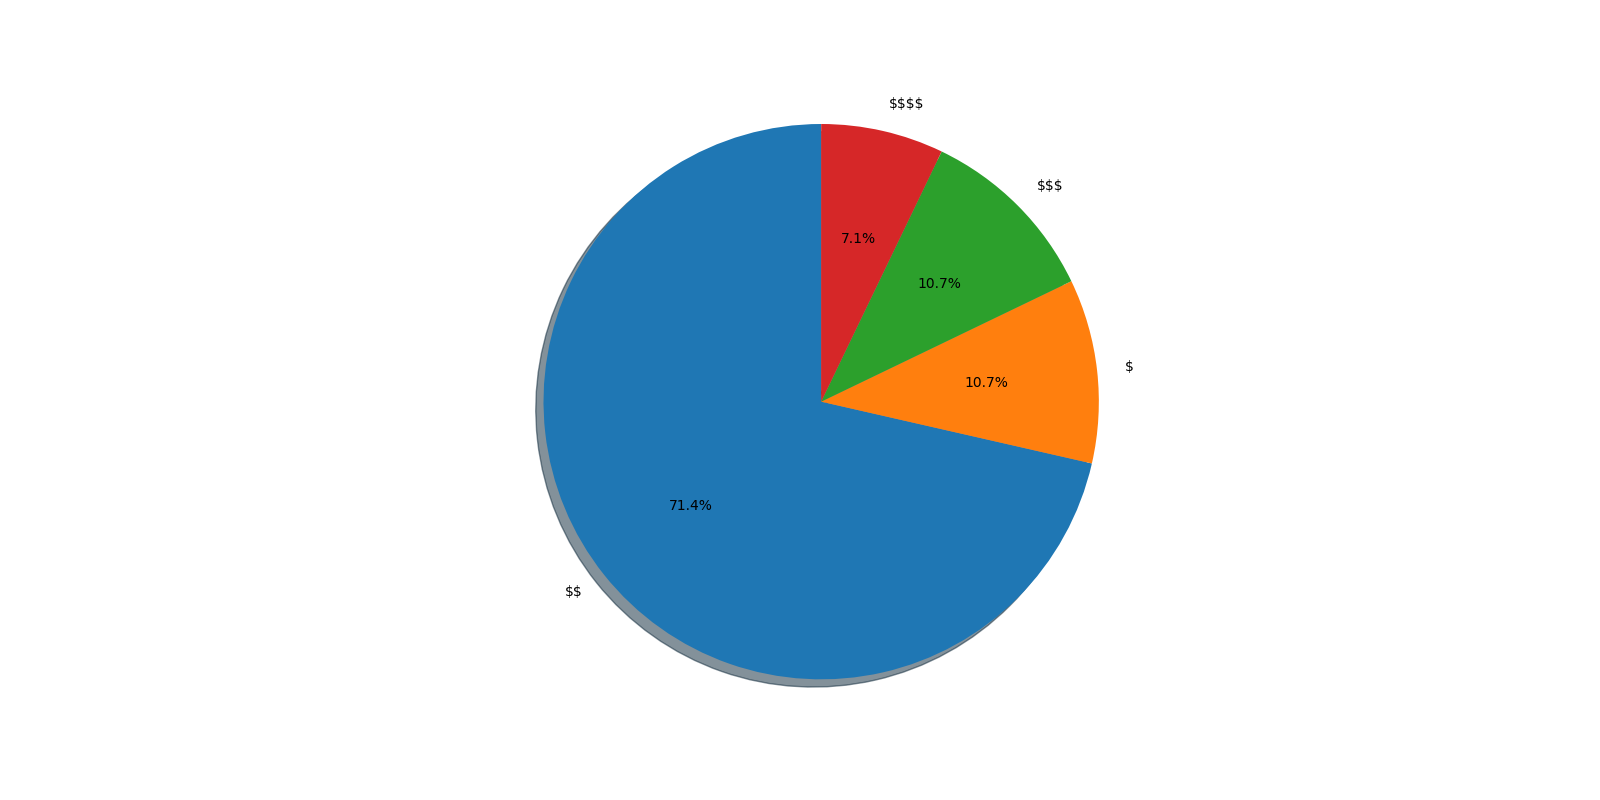
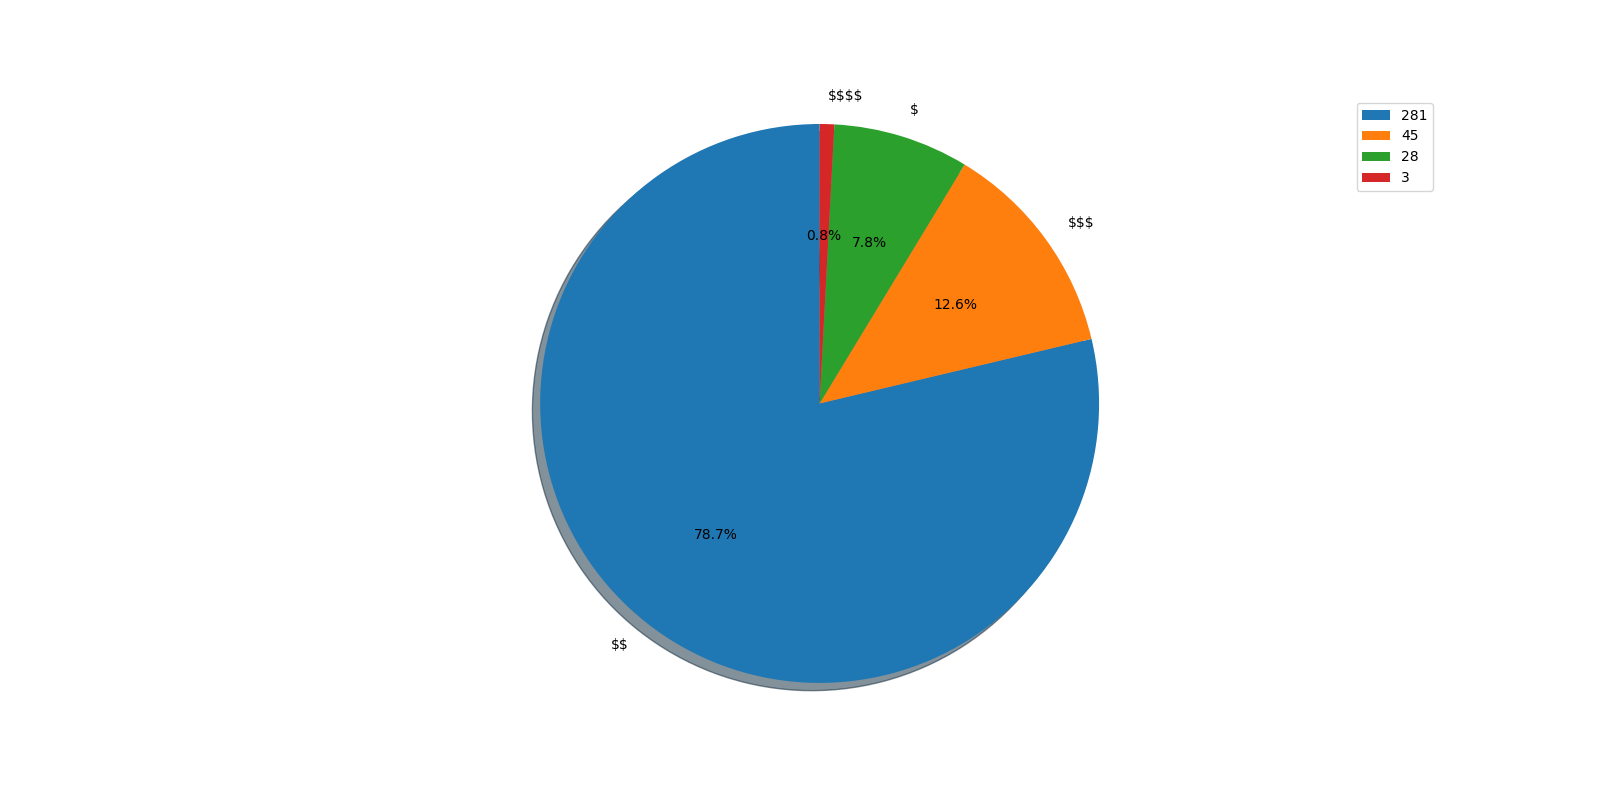
fixed and added legend to the pie cahrt

diff --git a/YelpNYC/YelpAnalyze.py b/YelpNYC/YelpAnalyze.py
@@ -42,6 +42,7 @@ class analyzer(object):
             size = self.priceRangeCount['count'].values.tolist()
             fig1, ax1 = plt.subplots(figsize=(16, 8))
             ax1.pie(size, labels=labels, autopct='%1.1f%%',shadow=True, startangle=90)
+            plt.legend(size, loc='upper right')
             ax1.axis('equal')
             plt.savefig('piechart.png')
             plt.show()
@@ -86,6 +87,7 @@ class analyzer(object):
             avg = (sum/counter)
             self.AreaAverages.update({a: avg})
         print self.AreaAverages
+
     def StitchAreas(self):
         #TODO:
         ## use PIL/OpenCV to colorize each area based on price range avg then stitch those areas together as an overlay
@@ -97,5 +99,5 @@ if __name__ == "__main__":
     a = analyzer()
     a.retrieveFromDB()
     a.AreaPriceRange()
-    #a.CountPriceRange()
+    a.CountPriceRange()
 
